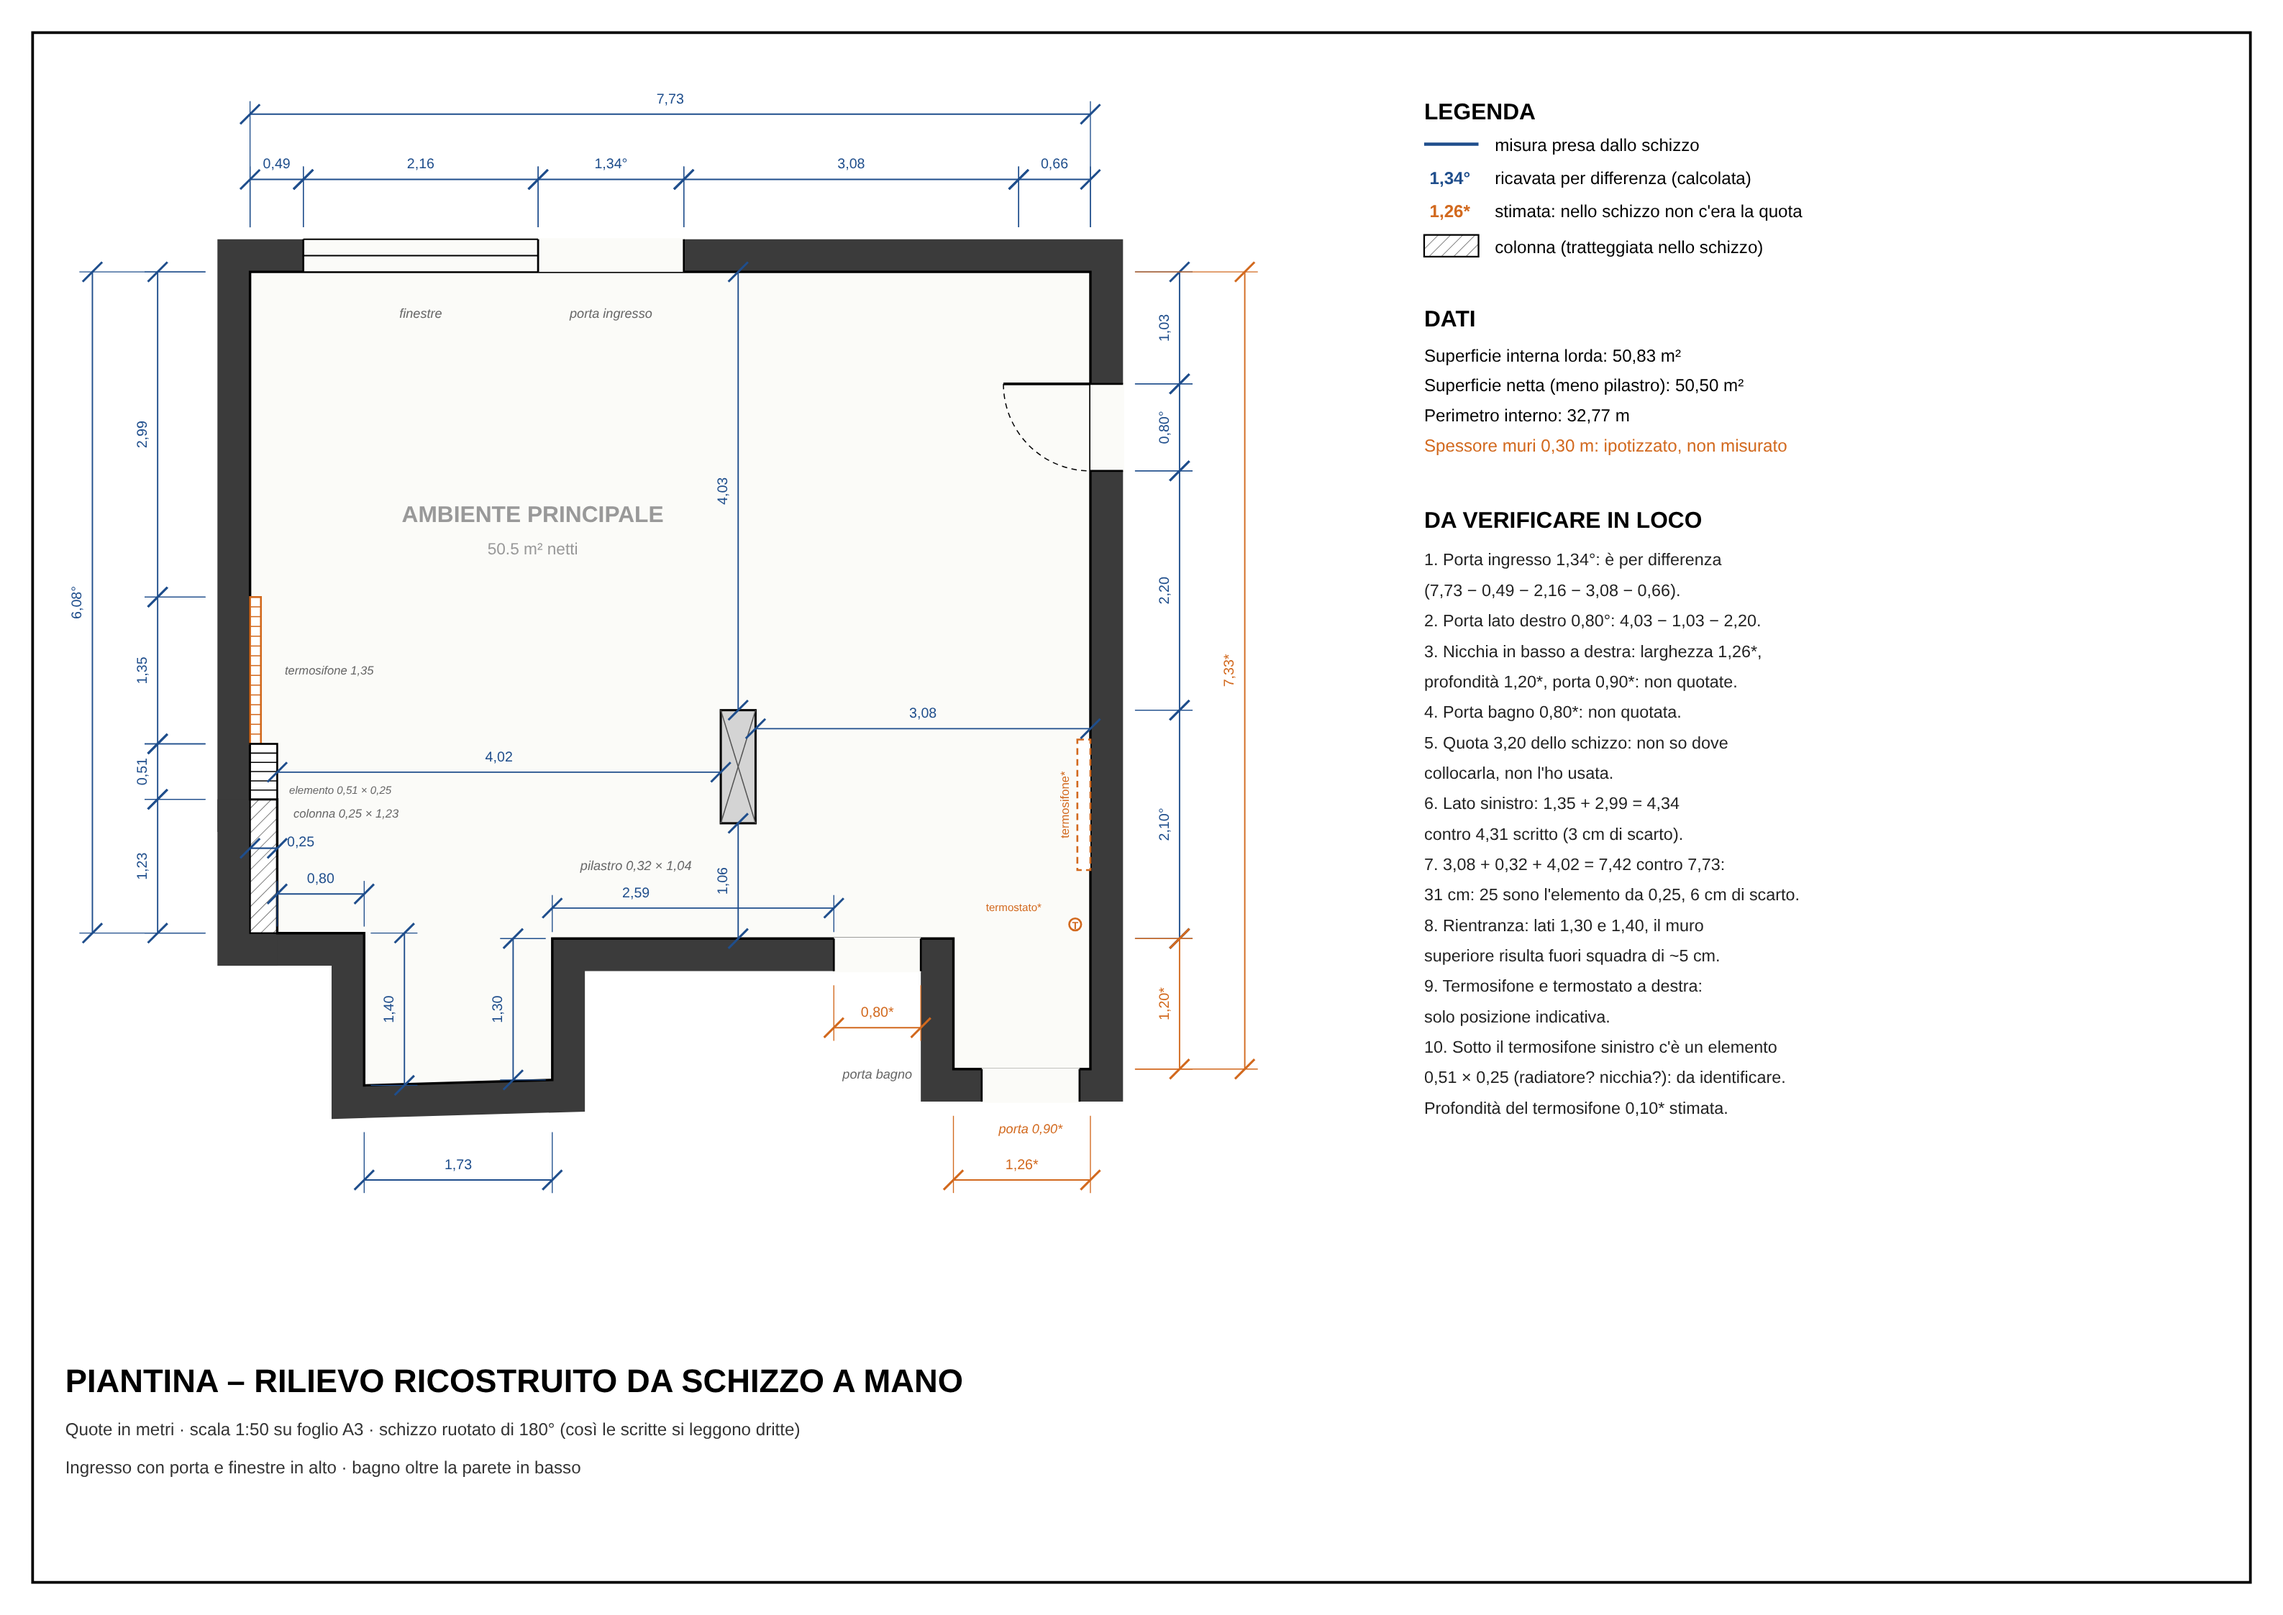
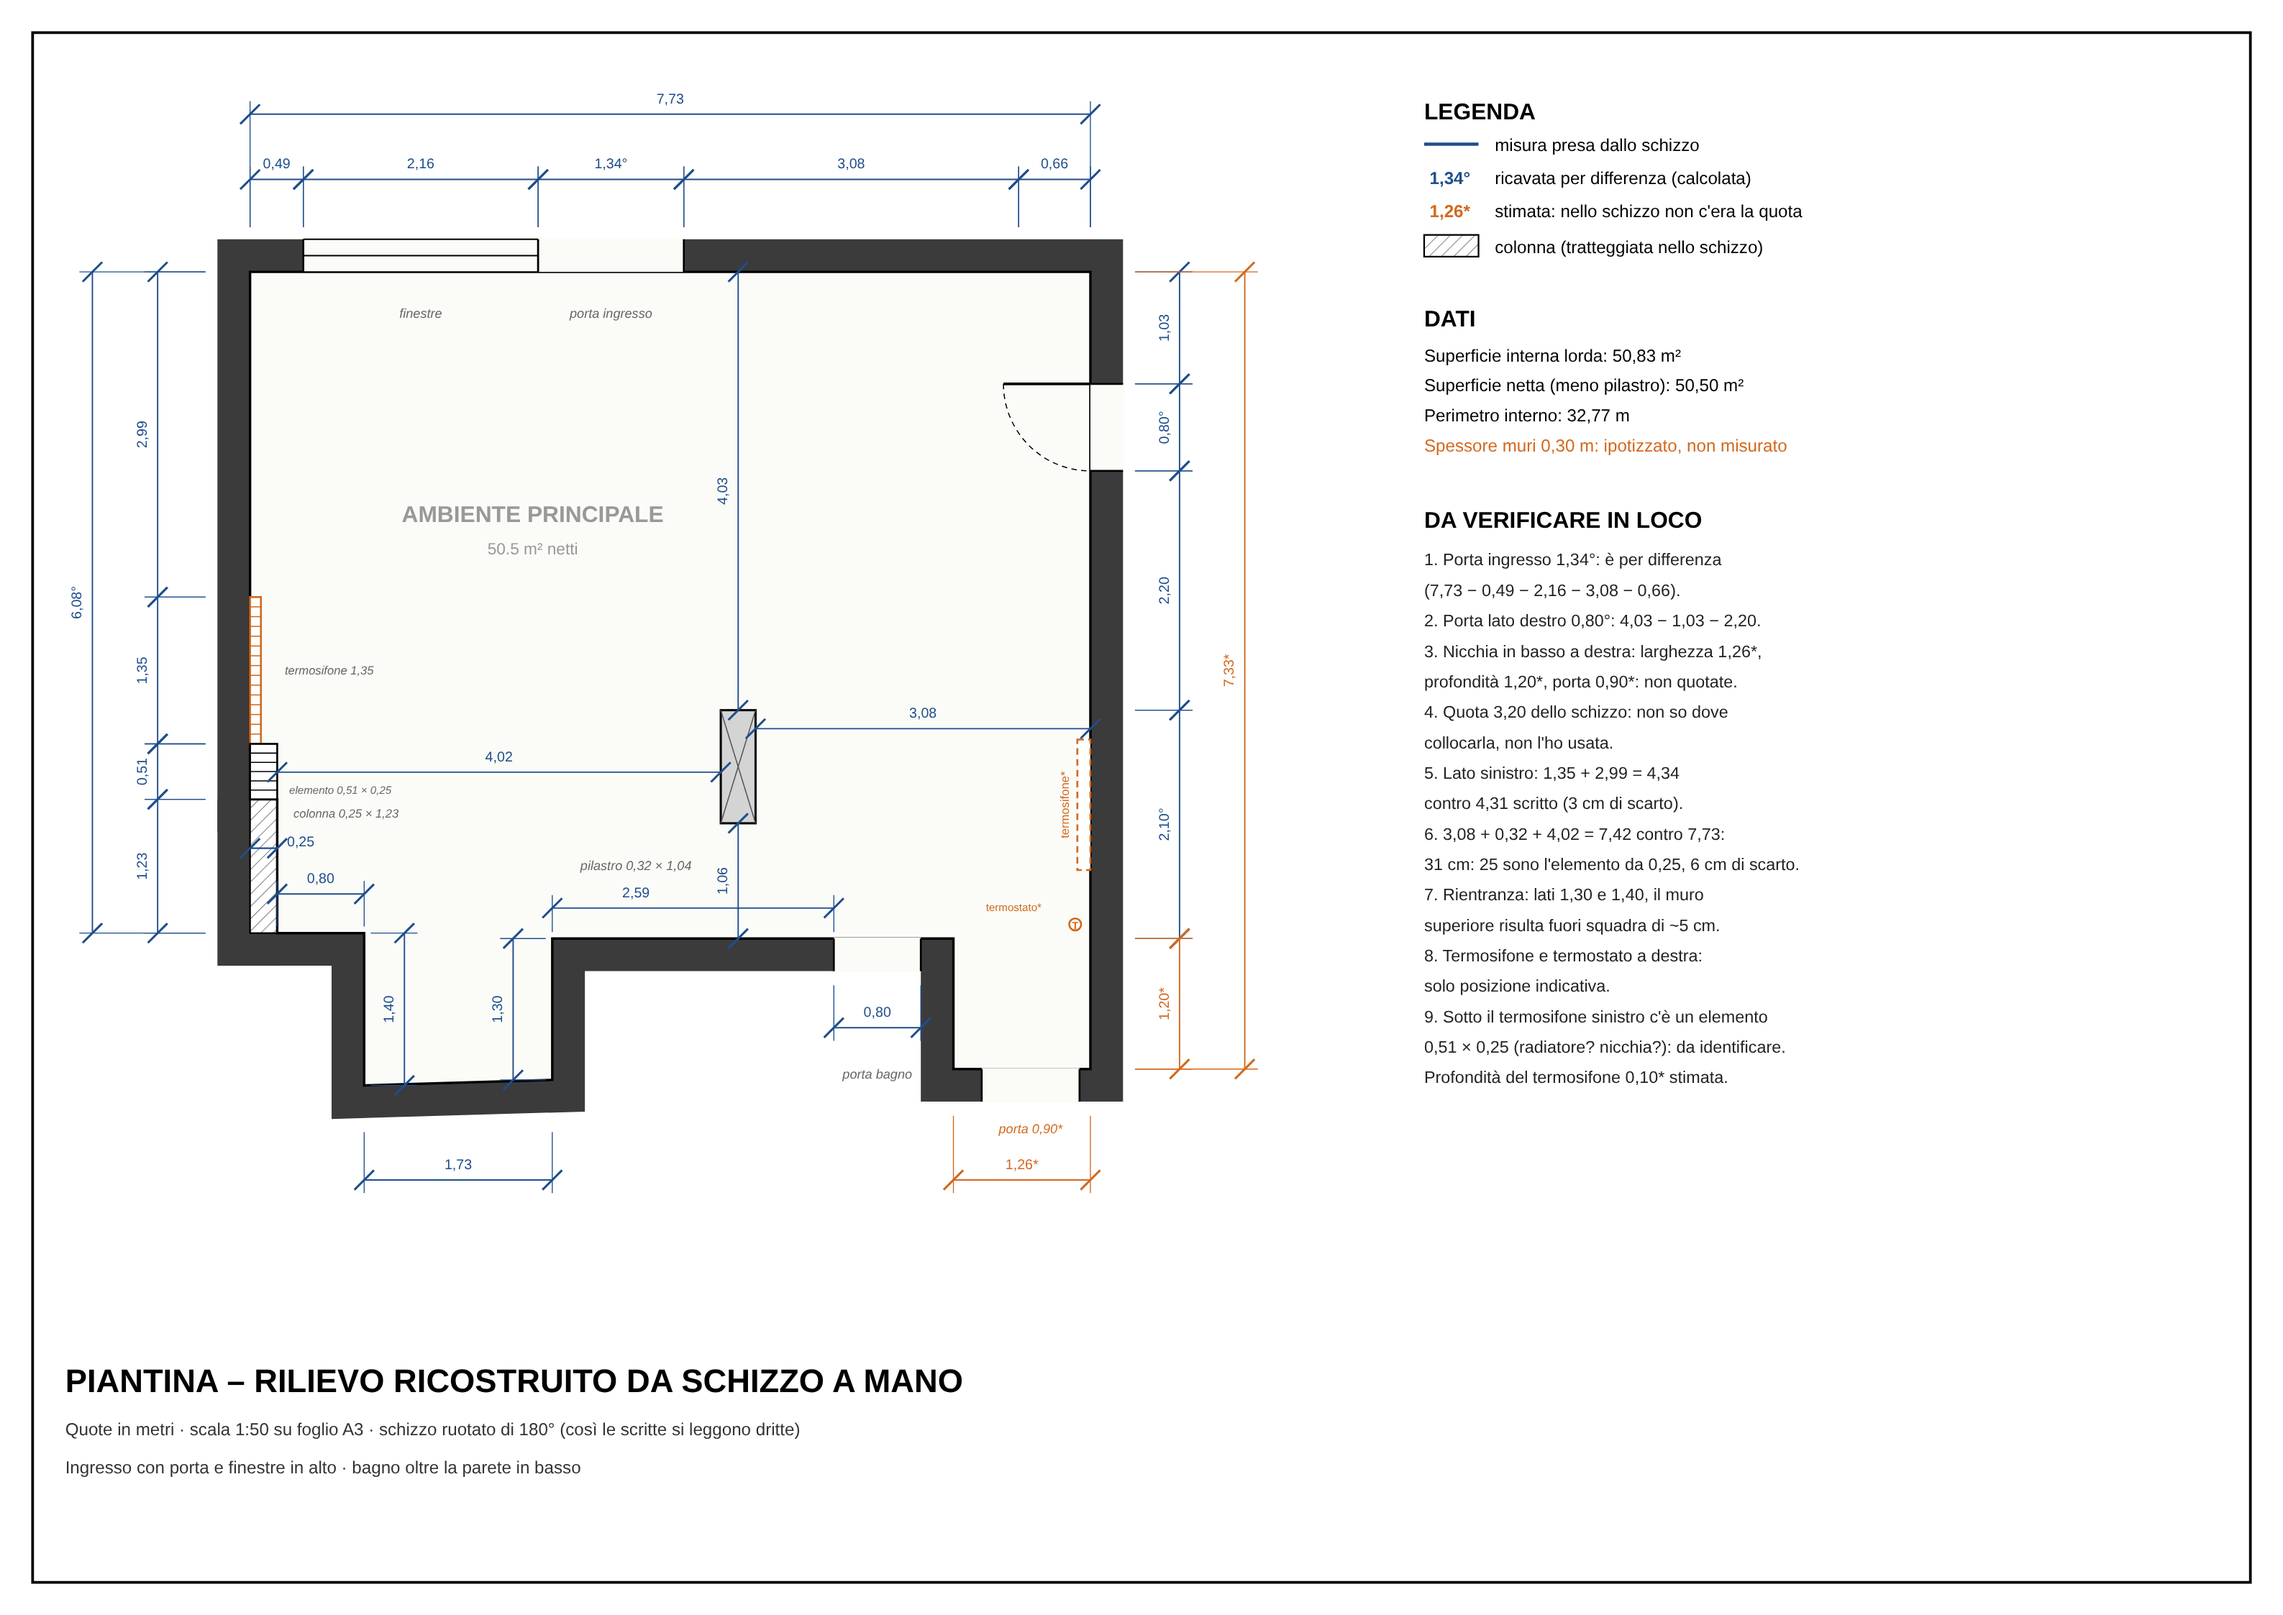
Conferma porta bagno 0,80
Claude-Session: https://claude.ai/code/session_012mEpG2XJd9CwTCZtepJEcC

Changed region(s): [[0.6238, 0.4363, 0.7798, 0.6857], [0.3743, 0.6233, 0.4055, 0.6545]]

diff --git a/piantina/genera_piantina.py b/piantina/genera_piantina.py
@@ -218,7 +218,7 @@ dim_v(6.13, 7.43, 2.42, "1,30", xobj=2.78)
 dim_h(1.05, 2.78, 8.35, "1,73", yobj=7.85)
 
 # porta bagno e nicchia (stima)
-dim_h(5.37, 6.17, 6.95, "0,80*", yobj=6.5, kind="e")
+dim_h(5.37, 6.17, 6.95, "0,80", yobj=6.5)
 dim_h(6.47, W, 8.35, "1,26*", yobj=7.70, kind="e")
 
 # ---------------------------------------------------------------- cartiglio
@@ -251,18 +251,17 @@ notes = [
     "2. Porta lato destro 0,80°: 4,03 − 1,03 − 2,20.",
     "3. Nicchia in basso a destra: larghezza 1,26*,",
     "    profondità 1,20*, porta 0,90*: non quotate.",
-    "4. Porta bagno 0,80*: non quotata.",
-    "5. Quota 3,20 dello schizzo: non so dove",
+    "4. Quota 3,20 dello schizzo: non so dove",
     "    collocarla, non l'ho usata.",
-    "6. Lato sinistro: 1,35 + 2,99 = 4,34",
+    "5. Lato sinistro: 1,35 + 2,99 = 4,34",
     "    contro 4,31 scritto (3 cm di scarto).",
-    "7. 3,08 + 0,32 + 4,02 = 7,42 contro 7,73:",
+    "6. 3,08 + 0,32 + 4,02 = 7,42 contro 7,73:",
     "    31 cm: 25 sono l'elemento da 0,25, 6 cm di scarto.",
-    "8. Rientranza: lati 1,30 e 1,40, il muro",
+    "7. Rientranza: lati 1,30 e 1,40, il muro",
     "    superiore risulta fuori squadra di ~5 cm.",
-    "9. Termosifone e termostato a destra:",
+    "8. Termosifone e termostato a destra:",
     "    solo posizione indicativa.",
-    "10. Sotto il termosifone sinistro c'è un elemento",
+    "9. Sotto il termosifone sinistro c'è un elemento",
     "    0,51 × 0,25 (radiatore? nicchia?): da identificare.",
     "    Profondità del termosifone 0,10* stimata.",
 ]
